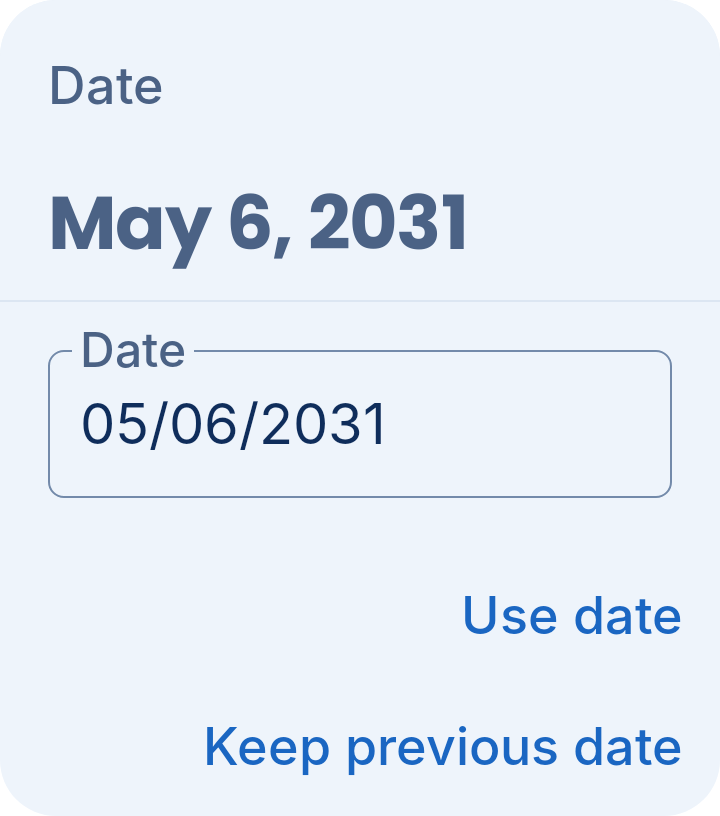
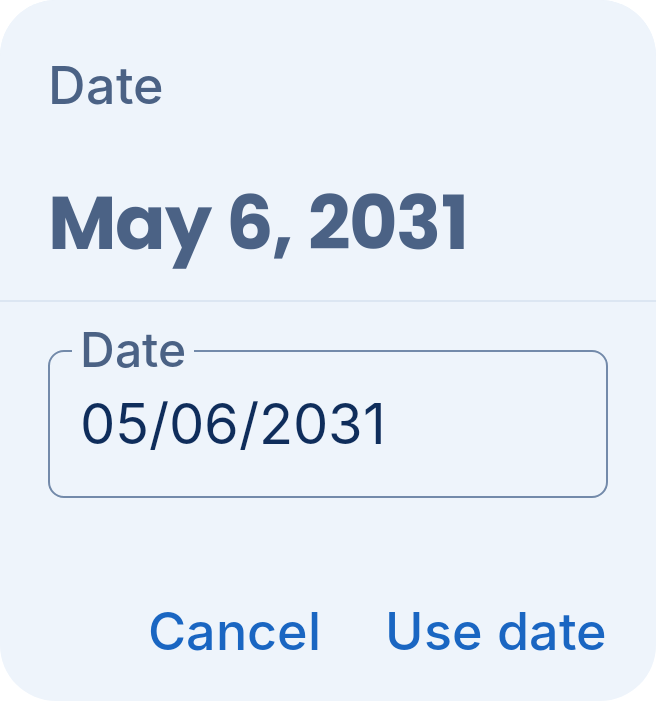
Keep form picker actions above the Android keyboard

diff --git a/android/shared/src/commonMain/kotlin/com/whumpo/android/ui/chat/forms/FormScreen.kt b/android/shared/src/commonMain/kotlin/com/whumpo/android/ui/chat/forms/FormScreen.kt
@@ -21,7 +21,6 @@ import androidx.compose.material3.Card
 import androidx.compose.material3.CardDefaults
 import androidx.compose.material3.AlertDialog
 import androidx.compose.material3.DatePicker
-import androidx.compose.material3.DatePickerDialog
 import androidx.compose.material3.DisplayMode
 import androidx.compose.material3.TimeInput as MaterialTimeInput
 import androidx.compose.material3.ExperimentalMaterial3Api
@@ -502,7 +501,7 @@ private fun DateInput(
         val initial = date.takeIf(::isIsoDate)?.let { Instant.parse("${it}T00:00:00Z").toEpochMilliseconds() }
         val largeText = LocalDensity.current.fontScale >= 1.5f
         val picker = rememberDatePickerState(initialSelectedDateMillis = initial, yearRange = 1..9999, initialDisplayMode = if (largeText) DisplayMode.Input else DisplayMode.Picker)
-        DatePickerDialog(
+        FormPickerDialog(
             modifier = Modifier.testTag("form-date-dialog"),
             onDismissRequest = { picking = false },
             confirmButton = {
@@ -516,11 +515,9 @@ private fun DateInput(
                     modifier = Modifier.testTag("form-date-confirm"),
                 ) { Text("Use date") }
             },
-            dismissButton = { TextButton({ picking = false }, Modifier.testTag("form-date-dismiss")) { Text("Keep previous date") } },
+            dismissButton = { TextButton({ picking = false }, Modifier.testTag("form-date-dismiss")) { Text("Cancel") } },
         ) {
-            FormMemoryOnlyContent {
-                DatePicker(picker, title = { Text(label, Modifier.padding(24.dp)) }, showModeToggle = !largeText, modifier = Modifier.testTag("form-date-picker"))
-            }
+            DatePicker(picker, title = { Text(label, Modifier.padding(24.dp)) }, showModeToggle = !largeText, modifier = Modifier.testTag("form-date-picker"))
         }
     }
 }
@@ -548,29 +545,33 @@ private fun TimeInput(
         ) { Text("Clear time") }
     }
     if (picking && enabled) {
+        val largeText = LocalDensity.current.fontScale >= 1.5f
         val pieces = time.split(':')
         val picker = rememberTimePickerState(
             initialHour = pieces.getOrNull(0)?.toIntOrNull()?.takeIf { it in 0..23 } ?: 12,
             initialMinute = pieces.getOrNull(1)?.toIntOrNull()?.takeIf { it in 0..59 } ?: 0,
             is24Hour = true,
         )
-        AlertDialog(
+        FormPickerDialog(
             modifier = Modifier.testTag("form-time-dialog"),
             onDismissRequest = { picking = false },
-            title = { Text("Choose time") },
-            text = {
-                FormMemoryOnlyContent {
-                    if (LocalDensity.current.fontScale >= 1.5f) MaterialTimeInput(picker, Modifier.testTag("form-time-picker"))
-                    else TimePicker(picker, Modifier.testTag("form-time-picker"))
-                }
-            },
             confirmButton = { TextButton({
                 onSelected("${picker.hour.toString().padStart(2, '0')}:${picker.minute.toString().padStart(2, '0')}")
                 picking = false
                 onBlur()
             }, Modifier.testTag("form-time-confirm")) { Text("Use time") } },
-            dismissButton = { TextButton({ picking = false }, Modifier.testTag("form-time-dismiss")) { Text("Keep previous time") } },
-        )
+            dismissButton = { TextButton({ picking = false }, Modifier.testTag("form-time-dismiss")) { Text("Cancel") } },
+        ) {
+            Column(
+                modifier = Modifier.fillMaxWidth().padding(horizontal = 16.dp, vertical = if (largeText) 12.dp else 24.dp),
+                verticalArrangement = Arrangement.spacedBy(if (largeText) 8.dp else 16.dp),
+                horizontalAlignment = Alignment.CenterHorizontally,
+            ) {
+                Text("Choose time", style = MaterialTheme.typography.headlineSmall)
+                if (largeText) MaterialTimeInput(picker, Modifier.testTag("form-time-picker"))
+                else TimePicker(picker, Modifier.testTag("form-time-picker"))
+            }
+        }
     }
 }
 

diff --git a/android/shared/src/commonMain/kotlin/com/whumpo/android/ui/chat/forms/FormPickerDialog.kt b/android/shared/src/commonMain/kotlin/com/whumpo/android/ui/chat/forms/FormPickerDialog.kt
@@ -1,0 +1,56 @@
+package com.whumpo.android.ui.chat.forms
+
+import androidx.compose.foundation.layout.Arrangement
+import androidx.compose.foundation.layout.Box
+import androidx.compose.foundation.layout.Column
+import androidx.compose.foundation.layout.FlowRow
+import androidx.compose.foundation.layout.fillMaxWidth
+import androidx.compose.foundation.layout.padding
+import androidx.compose.foundation.layout.widthIn
+import androidx.compose.foundation.rememberScrollState
+import androidx.compose.foundation.verticalScroll
+import androidx.compose.material3.MaterialTheme
+import androidx.compose.material3.Surface
+import androidx.compose.runtime.Composable
+import androidx.compose.ui.Alignment
+import androidx.compose.ui.Modifier
+import androidx.compose.ui.unit.dp
+
+@Composable
+internal fun FormPickerDialog(
+    modifier: Modifier,
+    onDismissRequest: () -> Unit,
+    confirmButton: @Composable () -> Unit,
+    dismissButton: @Composable () -> Unit,
+    content: @Composable () -> Unit,
+) {
+    FormPickerDialogWindow(onDismissRequest) {
+        FormMemoryOnlyContent {
+            Surface(
+                modifier.widthIn(max = 360.dp).fillMaxWidth(),
+                shape = MaterialTheme.shapes.extraLarge,
+                color = MaterialTheme.colorScheme.surfaceContainerHigh,
+            ) {
+                Column {
+                    // Reserve space for the actions before measuring the scrollable picker.
+                    Box(Modifier.weight(1f, fill = false).verticalScroll(rememberScrollState())) {
+                        content()
+                    }
+                    FlowRow(
+                        modifier = Modifier.fillMaxWidth().padding(horizontal = 12.dp, vertical = 8.dp),
+                        horizontalArrangement = Arrangement.spacedBy(8.dp, Alignment.End),
+                    ) {
+                        dismissButton()
+                        confirmButton()
+                    }
+                }
+            }
+        }
+    }
+}
+
+@Composable
+internal expect fun FormPickerDialogWindow(
+    onDismissRequest: () -> Unit,
+    content: @Composable () -> Unit,
+)

diff --git a/android/androidApp/src/androidTest/kotlin/com/whumpo/android/FormDeviceTest.kt b/android/androidApp/src/androidTest/kotlin/com/whumpo/android/FormDeviceTest.kt
@@ -15,6 +15,7 @@ import androidx.compose.ui.platform.LocalDensity
 import androidx.compose.ui.node.RootForTest
 import androidx.core.view.allViews
 import androidx.compose.ui.test.assert
+import androidx.compose.ui.test.click
 import androidx.compose.ui.test.assertIsFocused
 import androidx.compose.ui.test.hasAnyAncestor
 import androidx.compose.ui.test.hasTestTag
@@ -31,6 +32,7 @@ import androidx.compose.ui.test.performClick
 import androidx.compose.ui.test.performScrollTo
 import androidx.compose.ui.test.performTextInput
 import androidx.compose.ui.test.performTextReplacement
+import androidx.compose.ui.test.performTouchInput
 import androidx.compose.ui.test.tryPerformAccessibilityChecks
 import androidx.compose.ui.unit.Density
 import androidx.compose.ui.unit.dp
@@ -340,11 +342,13 @@ class FormDeviceTest {
             val actions = show(fontScale = 2f, displayedForm = dates, initialAnswers = initial)
             compose.onNodeWithText("2031-05-06").performScrollTo().performClick()
             assertDialogConfirmAboveKeyboard(compose, compose.onNode(hasSetTextAction()), "form-date-confirm")
-            compose.onNodeWithTag("form-date-confirm").performClick()
+            compose.onNodeWithTag("form-date-confirm").performTouchInput { click() }
+            compose.onNodeWithTag("form-date-dialog").assertDoesNotExist()
             assertEquals(initial, actions.answers)
             compose.onNodeWithText("07:08").performScrollTo().performClick()
             assertDialogConfirmAboveKeyboard(compose, compose.onAllNodes(hasSetTextAction())[0], "form-time-confirm")
-            compose.onNodeWithTag("form-time-confirm").performClick()
+            compose.onNodeWithTag("form-time-confirm").performTouchInput { click() }
+            compose.onNodeWithTag("form-time-dialog").assertDoesNotExist()
             assertEquals(initial, actions.answers)
             assertTrue(actions.calls.filterNot { it.startsWith("blur:") }.isEmpty())
         } finally {

diff --git a/android/shared/src/androidMain/kotlin/com/whumpo/android/ui/chat/forms/FormPickerDialogWindow.kt b/android/shared/src/androidMain/kotlin/com/whumpo/android/ui/chat/forms/FormPickerDialogWindow.kt
@@ -1,0 +1,36 @@
+package com.whumpo.android.ui.chat.forms
+
+import androidx.compose.foundation.gestures.detectTapGestures
+import androidx.compose.foundation.layout.Box
+import androidx.compose.foundation.layout.fillMaxSize
+import androidx.compose.foundation.layout.padding
+import androidx.compose.foundation.layout.safeDrawingPadding
+import androidx.compose.runtime.Composable
+import androidx.compose.runtime.getValue
+import androidx.compose.runtime.rememberUpdatedState
+import androidx.compose.ui.Alignment
+import androidx.compose.ui.Modifier
+import androidx.compose.ui.input.pointer.pointerInput
+import androidx.compose.ui.unit.dp
+import androidx.compose.ui.window.Dialog
+import androidx.compose.ui.window.DialogProperties
+
+@Composable
+internal actual fun FormPickerDialogWindow(
+    onDismissRequest: () -> Unit,
+    content: @Composable () -> Unit,
+) {
+    val dismiss by rememberUpdatedState(onDismissRequest)
+    Dialog(
+        onDismissRequest = onDismissRequest,
+        properties = DialogProperties(usePlatformDefaultWidth = false, decorFitsSystemWindows = false),
+    ) {
+        // The window spans the screen so its IME inset constrains the dialog's own layout.
+        Box(Modifier.fillMaxSize(), contentAlignment = Alignment.Center) {
+            Box(Modifier.matchParentSize().pointerInput(Unit) { detectTapGestures { dismiss() } })
+            Box(Modifier.safeDrawingPadding().padding(horizontal = 16.dp, vertical = 8.dp)) {
+                content()
+            }
+        }
+    }
+}

diff --git a/android/shared/src/jvmMain/kotlin/com/whumpo/android/ui/chat/forms/FormPickerDialogWindow.kt b/android/shared/src/jvmMain/kotlin/com/whumpo/android/ui/chat/forms/FormPickerDialogWindow.kt
@@ -1,0 +1,12 @@
+package com.whumpo.android.ui.chat.forms
+
+import androidx.compose.runtime.Composable
+import androidx.compose.ui.window.Dialog
+
+@Composable
+internal actual fun FormPickerDialogWindow(
+    onDismissRequest: () -> Unit,
+    content: @Composable () -> Unit,
+) {
+    Dialog(onDismissRequest = onDismissRequest, content = content)
+}

diff --git a/docs/android-verification.md b/docs/android-verification.md
@@ -110,6 +110,13 @@ stable frames provide evidence. A stable covered composer still fails the origin
 geometry assertion. Synthetic Java regressions exercise repeated-frame rejection,
 movement, animation and absence resets, and stable-but-covered geometry.
 
+The date and time dialog test uses actual 200% system text and compares the
+confirmation button in three stable rendered frames with the input-method
+window in screen coordinates. It then taps the button with the IME open and
+checks that the dialog closes. The Android picker dialog uses its own safe
+drawing insets, including the IME, and lets the picker body scroll while the
+actions stay visible.
+
 Direct instrumentation is diagnostic evidence, not a replacement for this Gradle
 gate.
 `AccountStateTest` uses the pinned Compose JUnit4 v2 rule's standard composition
